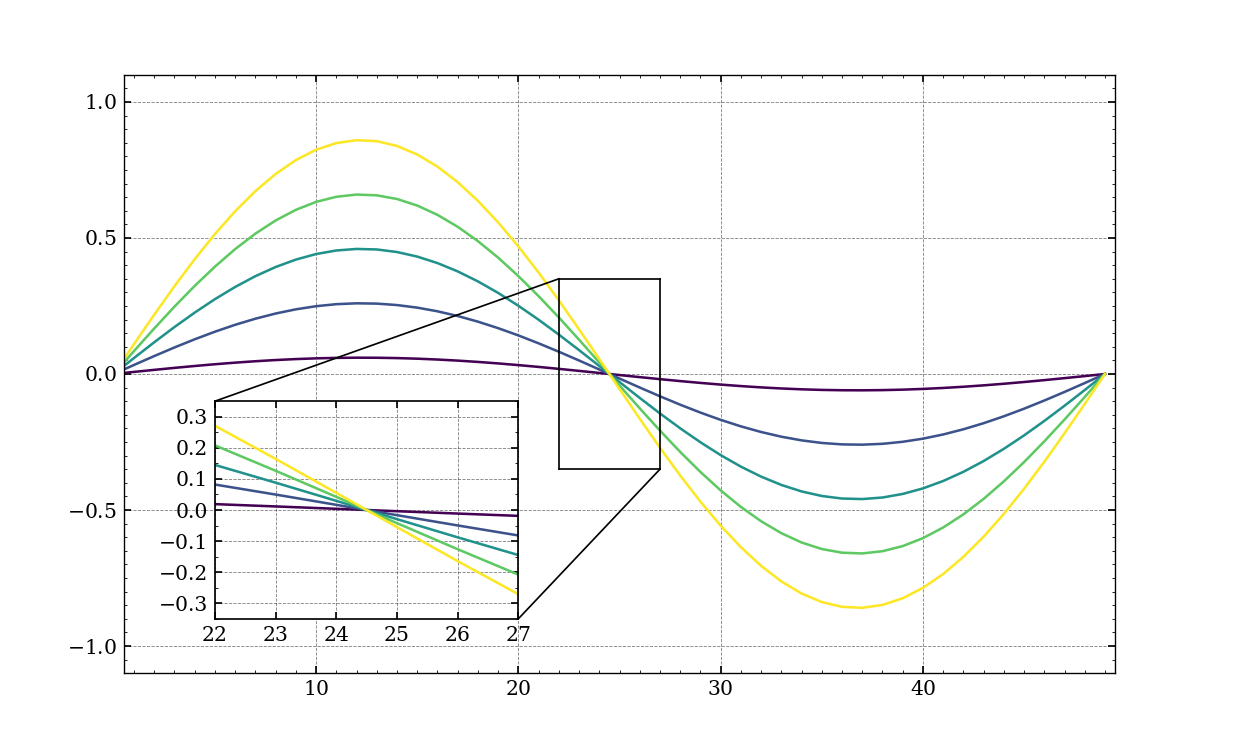
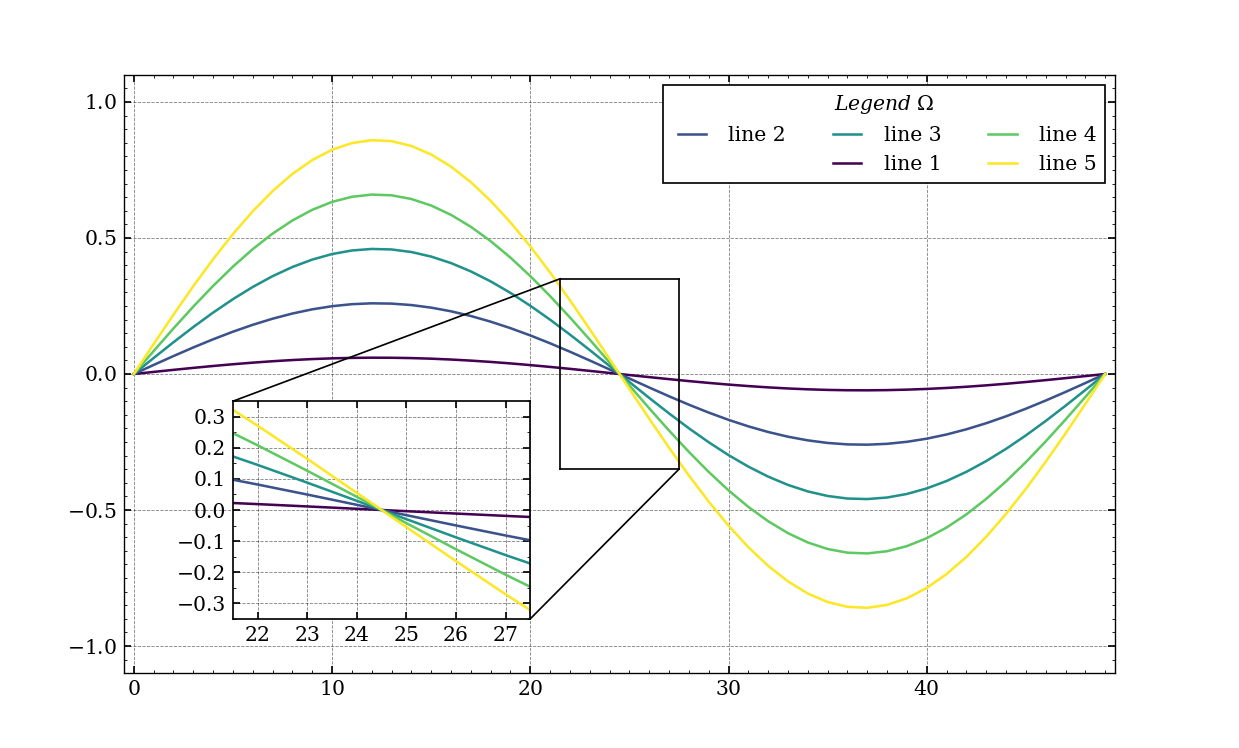
README update

diff --git a/journal_figure/library_package.py b/journal_figure/library_package.py
@@ -374,6 +374,80 @@ def _latexify(string, special_chars=['%', '$', '&', '"', "'"]):
     return latex_string
 
 
+def pretty_legend(axes, position='best', label_order='default', title=''):
+    """
+    Control the legend content and position. 
+
+    Parameters
+    ----------
+    axes : <handle axes>
+        Handle of the axes.
+    position : <string> / <list>/<tuple>/<numpy.ndarray>, optional
+    Location of the legend within the axes. \n
+        If <string> then following values are available: "best", "upper right", "upper left", "lower left", "lower right", "right", "center left", "center right", "lower center", "upper center", "center".\n
+        If <list>/<tuple>/<numpy.ndarray> then relative position of legends origin in form of [x0, y0], where 0.0<x0,y0<1.0, but values <0.0 and >1.0 are allowed as well. The default is 'best'.
+    label_order : <string> / <list<list>>/<2D numpy.ndarray>, optional
+        Order of the labels within the legend. \n
+        If <string> then following values are available: "default" and "reverse". \n
+        If <list<list>>/<2D numpy.ndarray> then the labels are ordered as follows: \n
+            label_order = [[ 1 , 2 , 3], \n
+                           ['e', 0 , 4 ]] \n
+        where the <int> are indexed position of labels and "e" is empty entry (e.g. when grouping of the labels into columns is required). \n
+        The default is 'default'.
+    title : <string>, optional
+        The title of the legend.
+    
+    Raises
+    ------
+    ValueError
+        Parameters "position" and "label_order" have multiple types, wrong type throws error.
+
+    Returns
+    -------
+    Handle of the legend <handle legend>.
+
+    """
+    # get handles and labels from the legend
+    handles, labels = axes.get_legend_handles_labels()
+    
+    if(label_order == 'reverse'):
+        handles_ordered = handles.copy()
+        labels_ordered  = labels.copy()
+        handles_ordered.reverse()
+        labels_ordered.reverse()
+    elif(label_order == 'default'):
+        handles_ordered = handles.copy()
+        labels_ordered  = labels.copy()
+    elif(type(label_order) == np.ndarray or type(label_order) == list):
+        # assure the array is np.array
+        label_order_np = np.array(label_order, dtype=object)
+        # allocate empty lists
+        handles_ordered = []
+        labels_ordered = []
+        # order the elements according to label_order_np
+        for x in np.transpose(label_order_np):
+            for y in x:
+                if(isinstance(y, int)):
+                    handles_ordered.append(handles[y])
+                    labels_ordered.append(labels[y])
+                else:
+                    empty_entry = mpl.lines.Line2D([1, 0], [0, 1], linewidth=None, linestyle=None, color=None, alpha=0.0, marker=None, markersize=None, markeredgewidth=None, markeredgecolor=None, markerfacecolor=None, markerfacecoloralt='none')
+                    handles_ordered.append(empty_entry)
+                    labels_ordered.append('')
+    else:
+        raise ValueError('The "label_order" parameter is incorrect. Check help(pretty_legend)')
+    
+    # show the legend
+    # axes.legend(handles, labels, ncol=2, bbox_to_anchor=(1.0, 1.0), loc=label_order_np.shape[1], borderaxespad=0.0)
+    
+    if(isinstance(position, str)):
+        legend = axes.legend(handles_ordered, labels_ordered, ncol=label_order_np.shape[1], loc=position, title=title)
+    elif(isinstance(position, list) or isinstance(position, np.ndarray) or isinstance(position, tuple)):
+        legend = axes.legend(handles_ordered, labels_ordered, ncol=label_order_np.shape[1], bbox_to_anchor=position, title=title)
+    else:
+        raise ValueError('The "position" parameter is incorrect. Only <string> with values: "best", "upper right", "upper left", "lower left", "lower right", "right", "center left", "center right", "lower center", "upper center", "center" \n or relative position <list>/<tuple>/<numpy.ndarray> with [x0, y0]')
+
+    return legend
 #%% ---------------------------------------------------------------------------
 #   ----------------------------------TESTING----------------------------------
 #   ---------------------------------------------------------------------------
@@ -381,27 +455,33 @@ if __name__ == "__main__":
     # close any previous figure
     plt.close('all')
     
+    # create figure
+    figure = plt.figure(1)
+    # add main axes
+    axes = figure.add_axes([0.10,0.10,0.80,0.80])
+    # add axis for detail
+    detail_ax = figure.add_axes([0.40,0.40,0.20,0.20])
+    ## axes limits
+    limX = [-0.5, 49.5]
+    limY = [-1.1, 1.1]
+    # pick colormap
+    colormap= 'viridis'
+    # number of data plotted
+    resolution = 5
+    
     # apply specific style
     set_style(apply_to='figure', style='pretty_style_v1')
     set_style(apply_to='fonts',  style='pretty_style_v1')
     set_style(apply_to='grid',   style='pretty_style_v1')
     set_style(apply_to='ticks',  style='pretty_style_v1')
- 
-    ## user input
-    limX = [0.5, 49.5]
-    limY = [-1.1, 1.1]
-    figure = plt.figure(1)
-    axes = figure.add_axes([0.10,0.10,0.80,0.80])
-    detail_ax = figure.add_axes([0.40,0.40,0.20,0.20])
+    set_style(apply_to='legend', style='pretty_style_v1')
     
-    colormap= 'viridis'
-    resolution = 5
-    
+    # get colormap function
     cmap = plt.get_cmap(colormap,resolution)
     
     # plot data
     for idx in range(0, resolution):
-        axes.plot( ((idx+0.3)/resolution)*np.sin(np.linspace(0, 2 * np.pi)), color=cmap(idx))
+        axes.plot( ((idx+0.3)/resolution)*np.sin(np.linspace(0, 2 * np.pi)), color=cmap(idx), label = 'line '+str(idx+1))
         detail_ax.plot( ((idx+0.3)/resolution)*np.sin(np.linspace(0, 2 * np.pi)), color=cmap(idx))
     
     # set ticks
@@ -415,7 +495,7 @@ if __name__ == "__main__":
     # prettify_minor_ticks(axes)
     # prettify_major_ticks(axes)
 
-    # enable and set minor ticks
+    # set ticks position
     axes.xaxis.set_major_locator(MultipleLocator(10))
     axes.yaxis.set_major_locator(MultipleLocator(0.5))
     axes.xaxis.set_minor_locator(MultipleLocator(1))
@@ -430,6 +510,7 @@ if __name__ == "__main__":
     detail_ax.xaxis.set_ticks_position('both')
     detail_ax.yaxis.set_ticks_position('both')
     
+    # set ticks format
     axes.xaxis.set_major_formatter('${x:.0f}$')
     axes.yaxis.set_major_formatter('${x:.1f}$')
 
@@ -437,13 +518,18 @@ if __name__ == "__main__":
     pretty_detail_axis(axes,
                        detail_ax,
                        main_limits=[limX, limY],
-                       detail_limits=[[22, 27],[-0.35, 0.35]],
+                       detail_limits=[[21.5, 27.5],[-0.35, 0.35]],
                        detail_pos=[[5, 20],[-0.9, -0.1]],
                        connections=[{'connector_detail':'NE', 'connector_detail_ax':'NE'}, {'connector_detail':'SW', 'connector_detail_ax':'SW'}],
                        line_setting = {'linestyle':'-', 'color':'black', 'linewidth':1.0, 'alpha':1.0} )
     
-    
+    # enable grid
     axes.grid('on')
     
     # set figure size
     set_figure_size(20,12,axes)
+
+    # add legend
+    label_order = [[ 1 , 2 , 3],
+                    ['e', 0 , 4 ]]
+    pretty_legend(axes, position='best', label_order=label_order, title='$Legend \; \Omega$')
